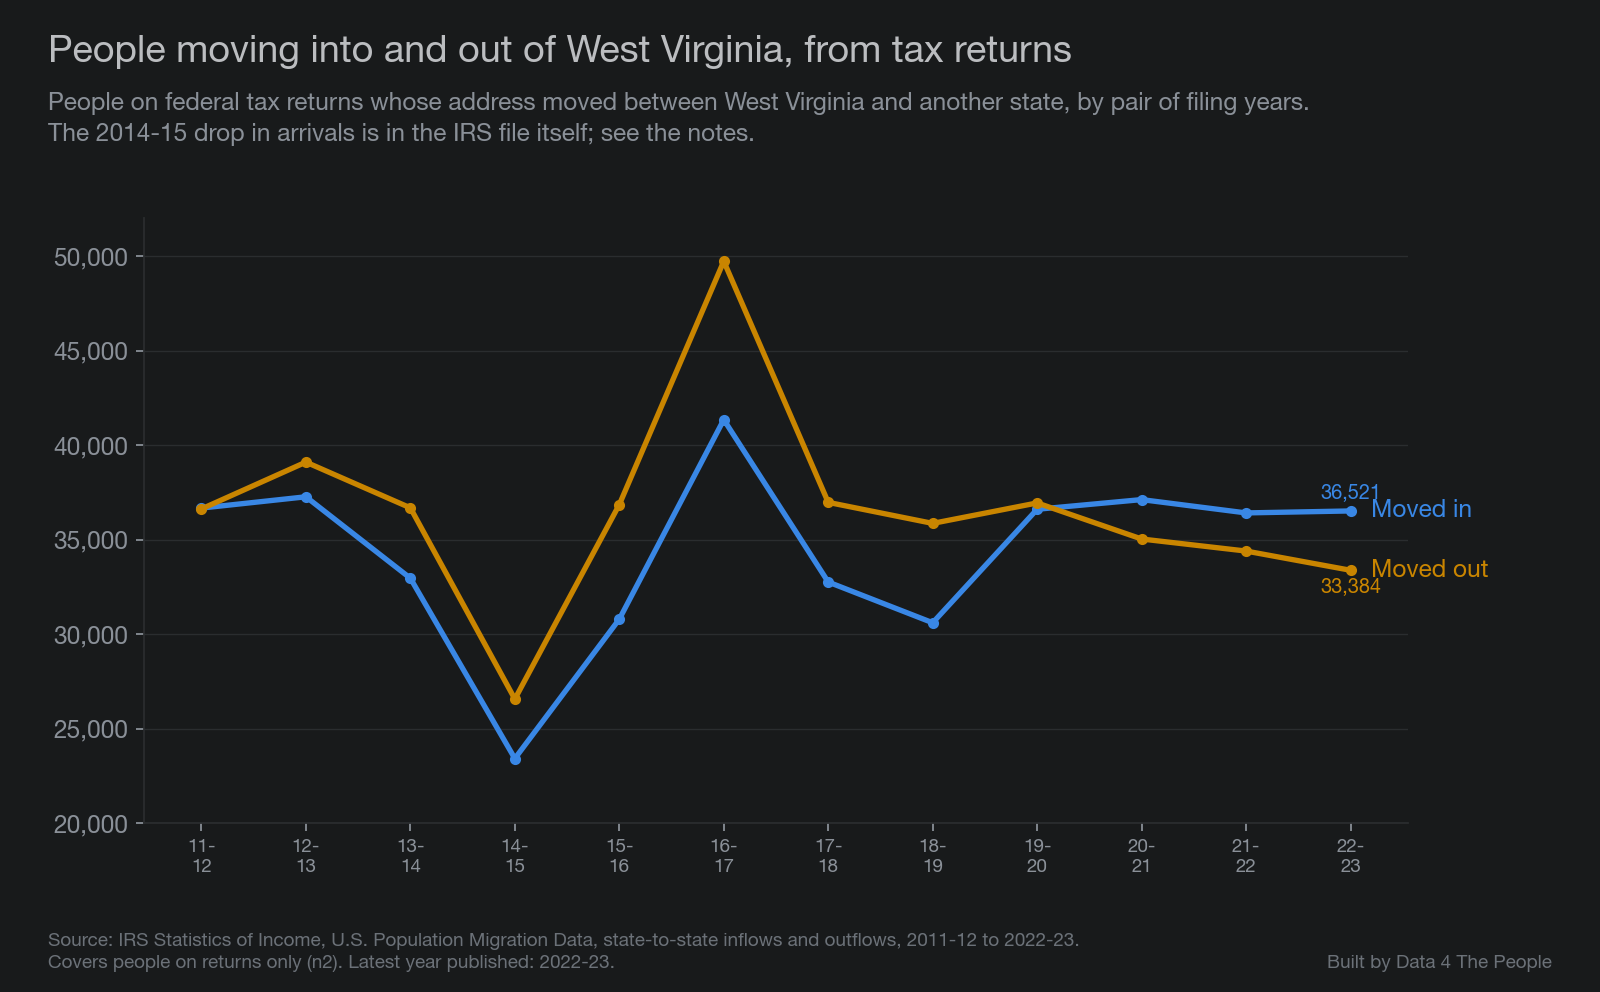
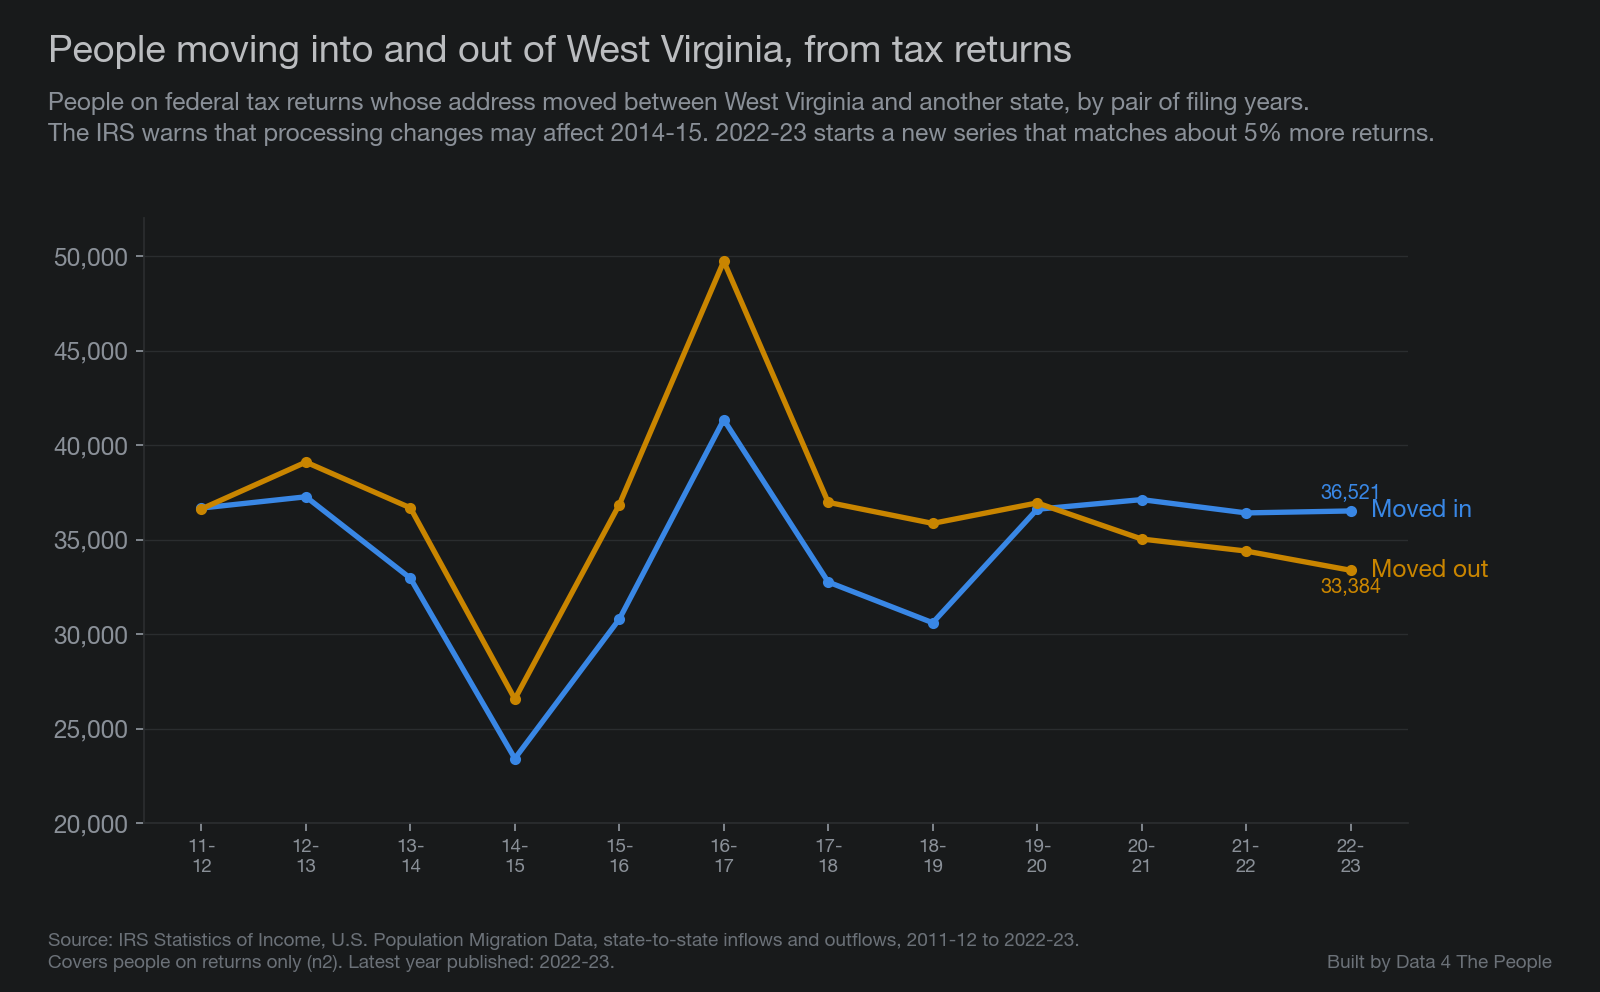
WV_Ascend_Movers: DATASETS.md for Census, IRS and JobsOhio; WVU data request draft

Changed region(s): [[0.0625, 0.125, 0.9062, 0.1562]]

diff --git a/scripts/06_charts.py b/scripts/06_charts.py
@@ -73,7 +73,8 @@ def chart_irs_flows():
     ax.set_axisbelow(True)
     titleblock(fig, "People moving into and out of West Virginia, from tax returns",
                "People on federal tax returns whose address moved between West Virginia and another state, "
-               "by pair of filing years.\nThe 2014-15 drop in arrivals is in the IRS file itself; see the notes.")
+               "by pair of filing years.\nThe IRS warns that processing changes may affect 2014-15. 2022-23 starts a new "
+               "series that matches about 5% more returns.")
     credit(fig, "Source: IRS Statistics of Income, U.S. Population Migration Data, state-to-state inflows and "
                 "outflows, 2011-12 to 2022-23.\nCovers people on returns only (n2). Latest year published: 2022-23.")
     fig.savefig(CHARTS / "02-wv-irs-in-out.png")

diff --git a/DATASETS.md b/DATASETS.md
@@ -1,0 +1,187 @@
+# Datasets
+
+One section per dataset. Written before the post, updated whenever we learn
+something new. Sources for every statement are linked in the section.
+
+---
+
+## Census Population Estimates, components of change, states and counties (U.S. Census Bureau)
+
+**What it is.** One row per state or county, with yearly columns for July 1
+population and the parts of each year's change: births, deaths, natural change,
+net international migration, net domestic migration, net migration and a
+residual. Each year runs July 1 to June 30 and is labeled by the year it ends.
+
+**Where it comes from.**
+`co-est2020-alldata.csv` (Vintage 2020, years ending 2011 to 2020) and
+`co-est2025-alldata.csv` (Vintage 2025, years ending 2021 to 2025), both under
+`https://www2.census.gov/programs-surveys/popest/datasets/`. Pulled by
+`scripts/01_fetch_popest.py`, cached in `data/raw/popest/`.
+
+**Version and vintage.** Vintage 2020 county file released May 2021. Vintage
+2025 released March 2026; its release notes were updated May 14, 2026. Each new
+vintage revises every year back to the last census and replaces the one before.
+We use the latest vintage for each decade.
+
+**How domestic migration is estimated.** It is a model, not a count. The
+Bureau computes migration rates from IRS tax returns (ages 0 to 64), Medicare
+enrollment (65 and older), Social Security records (for age) and changes in
+group quarters. It uses rates rather than the raw flows because not everyone
+files taxes, then applies the rates to the estimated population and forces the
+national total to zero.
+([V2025 methods](https://www2.census.gov/programs-surveys/popest/technical-documentation/methodology/2020-2025/methods-statement-v2025.pdf),
+[V2020 methods](https://www2.census.gov/programs-surveys/popest/technical-documentation/methodology/2010-2020/methods-statement-v2020-final.pdf))
+
+**Coverage.** All 50 states, D.C., and all 55 West Virginia counties. Every
+value is modeled; no year is a direct count.
+
+**Changes over time.**
+- The two vintages are not one series. Vintage 2020 starts from the 2010
+  Census; Vintage 2025 starts from the 2020 Census. They are not revised to
+  match each other, and the Bureau publishes no intercensal components for
+  2010 to 2020. Charts that span 2011 to 2025 say so.
+- The year ending July 1, 2020 straddles the start of the pandemic and is the
+  last year of the older vintage. Period averages leave it out.
+- Vintage 2025, year ending 2025 only: Medicare data for 2024-25 was not
+  received, so migration rates for people 65 and older reuse 2023-24. For ages
+  0 to 64, only a partial (26-week) IRS file came in and was combined with the
+  prior year's full file.
+  ([2025 release notes](https://www2.census.gov/programs-surveys/popest/technical-documentation/methodology/2020-2025/2025-est-relnotes.pdf))
+- Vintage 2024 and 2025 raised net international migration for 2021 to 2024.
+  This does not change domestic migration but does change net migration.
+- Column names: the 2010s file calls natural change `NATURALINC`, the 2020s
+  file `NATURALCHG`. The script handles both.
+
+**Suppressed, censored or masked values.** None.
+
+**Missing data.** None in the rows we use.
+
+**Revisions.** Every new vintage revises the whole decade. We pin Vintage 2020
+and Vintage 2025 and record the pull date in `data/raw/popest/pulled.txt`.
+
+**Units and rounding.** People. Rates per 1,000 are our calculation: net
+domestic migration summed over the period, divided by average population over
+the period, divided by the number of years.
+
+**Known quirks.** The `RESIDUAL` column is the part of the change the
+components do not explain, created when county and state estimates are forced
+to add up. National estimates have none. Both files repeat a state's code on
+its state row, so the duplicate-key check uses state and county together.
+
+**Uncertainty.** The Bureau publishes no error measure for the components. The
+only accuracy figure found: 2010-2020 county totals were off from the 2020
+Census by a mean absolute 2.9%.
+
+**License and attribution.** No license statement found. The Bureau asks
+users to cite it. Cite as "U.S. Census Bureau, Population Estimates Program,
+Vintage 2020 and Vintage 2025."
+
+---
+
+## IRS Statistics of Income, U.S. Population Migration Data, state-to-state (IRS)
+
+**What it is.** Federal tax returns matched across two filing years by
+taxpayer ID, comparing mailing addresses. Inflow rows count returns that moved
+into a state; outflow rows count returns that moved out. `n1` = returns
+(roughly households), `n2` = people on those returns, `AGI` = adjusted gross
+income in thousands of dollars, from the year-2 return.
+
+**Where it comes from.** `https://www.irs.gov/pub/irs-soi/stateinflowYYZZ.csv`
+and `stateoutflowYYZZ.csv`, 2011-12 to 2022-23. Pulled by
+`scripts/02_fetch_irs_migration.py`, cached in `data/raw/irs/`. Rows used: code
+97 (U.S. total), 96 (U.S. and foreign), 98 (foreign).
+([2022-23 guide](https://www.irs.gov/pub/irs-soi/2223inpublicmigdoc.pdf))
+
+**Version and vintage.** Latest year 2022-23, released March 19, 2026. No date
+announced for 2023-24.
+
+**Coverage.** Tax filers only. People who do not file, file late, switch
+between ITIN and SSN, or are claimed as dependents in year 2 are left out. The
+IRS publishes no share of the population covered. Since 2011-12 the full
+calendar year of filings is used.
+
+**Changes over time.**
+- `n2` meant "exemptions" through 2018-19 and "individuals" from 2019-20, when
+  exemptions were phased out. The column name did not change.
+  ([2019-20 guide](https://www.irs.gov/pub/irs-soi/1920inpublicmigdoc.pdf))
+- 2019-20 added returns filed only to get Economic Impact Payments.
+- **2022-23 is a new series.** A new matching method added about 5% more
+  returns. 2022-23 is not directly comparable with earlier years.
+- Some years use capitalized headers; the script lowercases them.
+
+**Suppressed, censored or masked values.** State cells under 10 returns are
+suppressed (`-1`). None of the West Virginia total rows we use are suppressed.
+
+**Missing data.** None in the rows used.
+
+**Revisions.** 2013-14 was reissued in March 2016 for geocoding errors. 2020-21
+was revised in June 2023 for a programming error. We use the files as posted
+on the pull date.
+
+**Units and rounding.** Returns and people as integers; AGI in thousands of
+dollars.
+
+**Known quirks.**
+- Code 97 is used both for "Total Migration-US" and "Total Migration-Same
+  State" (people who did not move between states). The two rows differ only by
+  name. The script drops the "Same State" row.
+- **2014-15**: West Virginia arrivals fall to 23,428 from 32,962, and
+  departures to 26,574 from 36,684, then rebound. The IRS gives no reason
+  specific to the state. Its 2014-15 guide warns that identity-theft
+  processing changes "may" affect comparisons across years
+  ([2014-15 guide](https://www.irs.gov/pub/irs-soi/1415inpublicmigdoc.pdf)).
+  We treat 2014-15 and the 2016-17 spike as possible processing effects, not
+  real swings.
+
+**Uncertainty.** None published.
+
+**License and attribution.** IRS public data. Cite as "IRS Statistics of
+Income, U.S. Population Migration Data."
+
+---
+
+## JobsOhio executed grant agreements, 2021-2025 (JobsOhio, parsed in the JobsOhioSmallBiz project)
+
+**What it is.** One row per executed incentive agreement and program, from
+JobsOhio's monthly executed grants and loans reports: company, county, jobs
+promised, payroll, investment, program and dollar value. These are promises
+at signing, not jobs verified later or dollars actually paid.
+
+**Where it comes from.** `~/PycharmProjects/JobsOhioSmallBiz/data/commitments_norm.csv`,
+built by that project's scripts 03 and 04. The full description, layout
+changes and parse checks are in that project's `DATASETS.md`, section
+"JobsOhio Monthly Executed Grants and Loans Reports."
+
+**How we use it.** `scripts/05_jobsohio_per_job.py`:
+- Calendar years 2021 to 2025, the years Ascend WV has run.
+- Grants only. Loans (Growth Fund, Revitalization Loan, Other Loan) are left
+  out because they are repaid. Site grants (Spec Development / OSIP) are left
+  out because they promise no jobs.
+- A project with two programs in one month has one row per program; jobs count
+  once per project (month, company, county) and dollars are summed.
+- A company that signs a second agreement often repeats the same job promise.
+  When the same company and county show the same job count in a later month
+  (checked back to 2015), the later agreement counts zero new jobs. 19
+  agreements in 2021-2025 are treated this way, including Intel's December
+  2022 workforce grant, which repeats the 3,000 jobs on its July 2022 grant.
+- Result: grant dollars divided by committed new jobs. Retained jobs are not
+  counted.
+
+**Known quirks that touch these years.** That project's `DATASETS.md` lists
+three parse defects found November 13, 2026. Two touch 2021 to 2025: about 24
+company names truncated or empty (one empty-name $10,125,000 workforce grant
+in January 2023 with zero jobs is in our total), and a one-row shift on the
+June 2023 page. The November 2016 gap is outside our years but affects the
+restated-promise check for that month.
+
+**What this is not.** Dollars per committed job is a gross figure. It does not
+say how many of those jobs would have come to Ohio without the grant.
+
+---
+
+## Comparison programs and Ascend WV figures
+
+Sections to come once the primary documents are read: Ascend WV
+program-reported figures and communities; Tulsa Remote (Bartik 2025, EIG);
+Vermont worker grants (DFR 2022); Kansas Rural Opportunity Zones (LPA 2023,
+Commerce 2020); Choose Topeka and Remote Shoals (CGR); CRS IN12472.

diff --git a/docs/wvu_request.md b/docs/wvu_request.md
@@ -1,0 +1,37 @@
+# Data request to WVU (draft for Eric to send)
+
+**To:** WVU Brad and Alys Smith Outdoor Economic Development Collaborative
+(Danny Twilley, or the program's general contact on ascendwv.com / oedc.wvu.edu)
+
+**Subject:** Data request on Ascend WV for a Data 4 The People piece
+
+---
+
+Hello,
+
+I run Data 4 The People, a nonprofit data journalism project. I am writing a
+piece on Ascend WV as an example of economic development that pays workers
+directly, and I would like to get the program's numbers right.
+
+The figures I have found in news coverage differ from each other. For
+example, I have seen participant counts of 509, 704, and "more than 700," and
+retention rates from 96% to 98%. Could you share the following, or point me to
+where they are published?
+
+1. Participants (the remote workers themselves) and total new residents,
+   including family members, by year of arrival and by community.
+2. How the program defines retention, and the retention rate by cohort.
+3. Total program spending by year, including incentives paid and operating
+   costs, and the share from private gifts, WVU, and state sources.
+4. The 2023 economic impact study, and the method behind the $500 million and
+   $580 million figures.
+5. Anything the program has learned about how many participants might have
+   moved to West Virginia without the incentive, such as a survey question or
+   a comparison with applicants who were not selected.
+
+I plan to write the piece the week of November 16, 2026. Anything you can share
+before then would help.
+
+Thank you,
+Eric Pachman
+Data 4 The People
